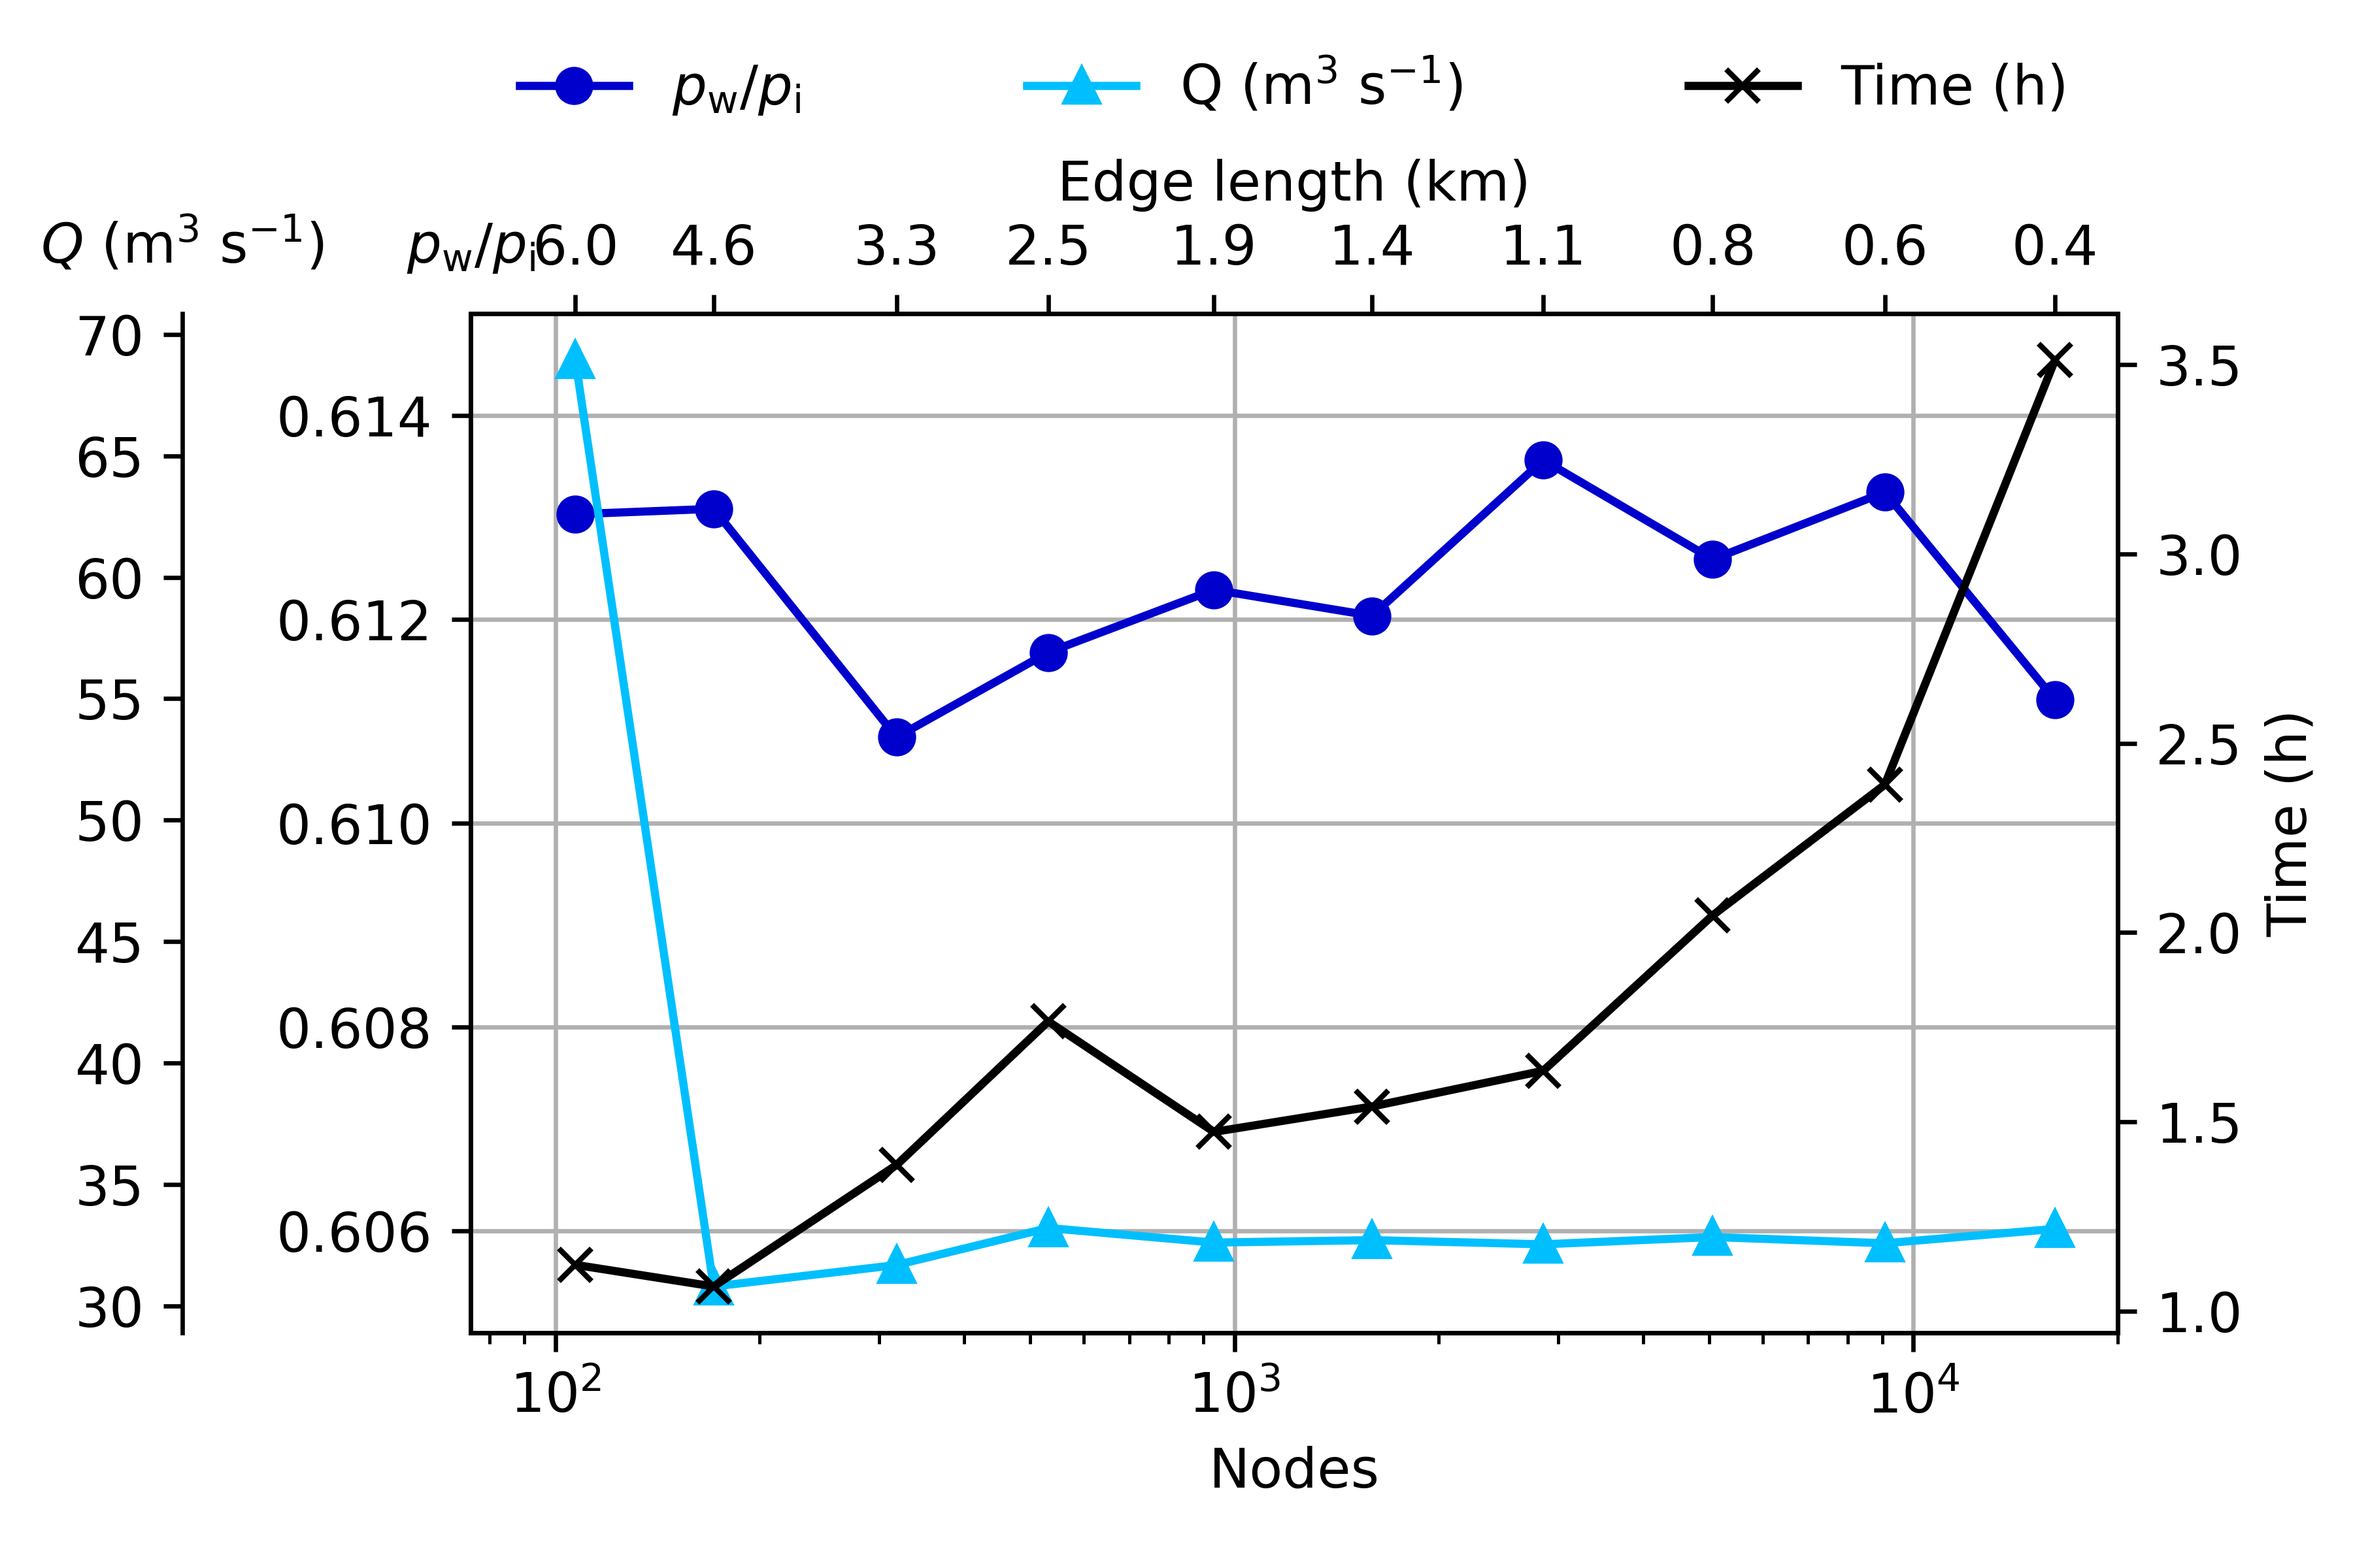
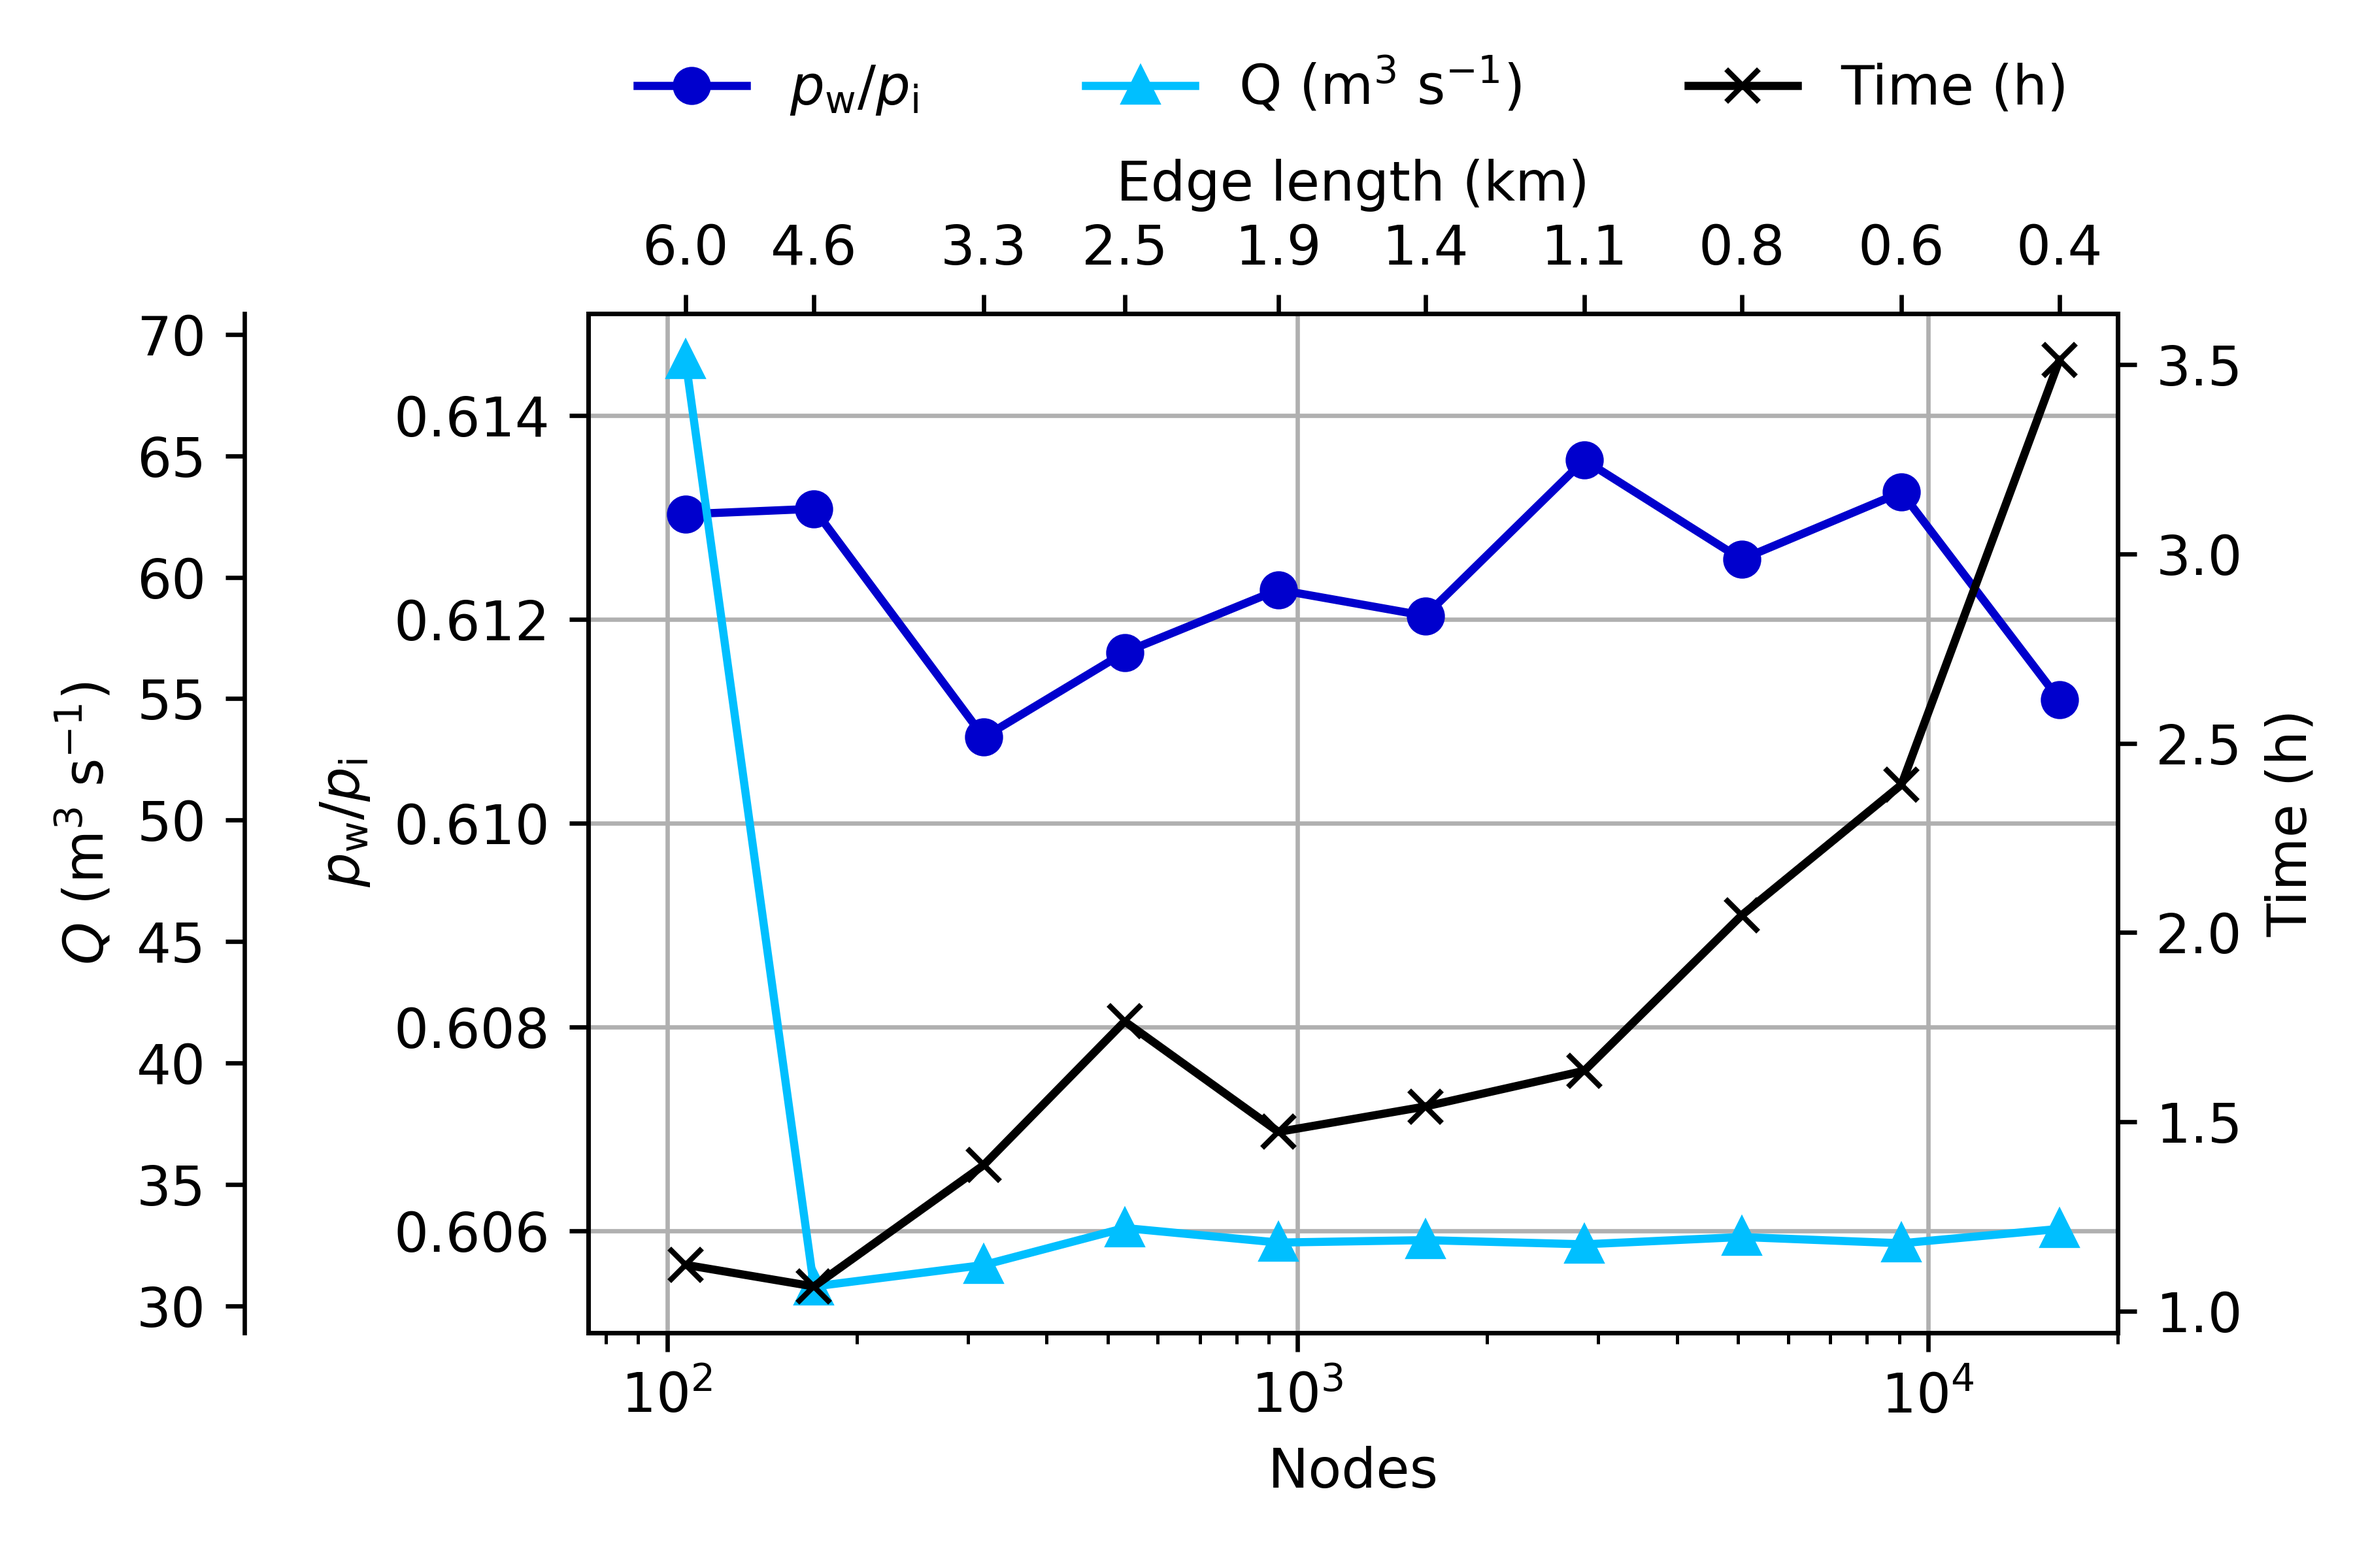
ylabels

diff --git a/analysis/mesh_refinement.py b/analysis/mesh_refinement.py
@@ -80,15 +80,15 @@ def plot_mesh_refinement(fnames, figname, figsize=(6, 4)):
     ax1.set_xlabel('Nodes')
     ax1.set_xlim([75, 2e4])
     ax1.set_ylim([0.605, 0.615])
-    ax1.text(0, 1.05, r'$p_{\rm{w}}/p_{\rm{i}}$', ha='center', transform=ax1.transAxes)
+    ax1.set_ylabel(r'$p_{\rm{w}}/p_{\rm{i}}$')
     
     ax2 = ax1.twinx()
     h2, = ax2.semilogx(n_nodes, Q_arr, marker='^', label='Q (m$^3$ s$^{-1}$)',
         color='deepskyblue')
     ax2.yaxis.tick_left()
     ax2.yaxis.set_label_position('left')
-    ax2.spines.left.set_position(('axes', -0.175))
-    ax2.text(-0.175, 1.05, r'$Q~({\rm{m}}^3~{\rm{s}}^{-1})$', transform=ax2.transAxes, ha='center')
+    ax2.spines.left.set_position(('axes', -0.225))
+    ax2.set_ylabel(r'$Q~({\rm{m}}^3~{\rm{s}}^{-1})$')
     
     ax3 = ax1.twinx()
     h3, = ax3.semilogx(n_nodes, clock_arr/3600, marker='x', label='Time (h)', color='k')
@@ -108,9 +108,9 @@ def plot_mesh_refinement(fnames, figname, figsize=(6, 4)):
     ax_hidden.set_xticklabels(['%.1f' % xi for xi in mean_edge_lengths/1e3])
 
     ax_hidden.minorticks_off()
-    fig.subplots_adjust(bottom=0.15, left=0.2, right=0.9, top=0.8)
+    fig.subplots_adjust(bottom=0.15, left=0.25, right=0.9, top=0.8)
     fig.savefig(figname, dpi=600)
-    # plt.show()
+    plt.show()
 
 
         
